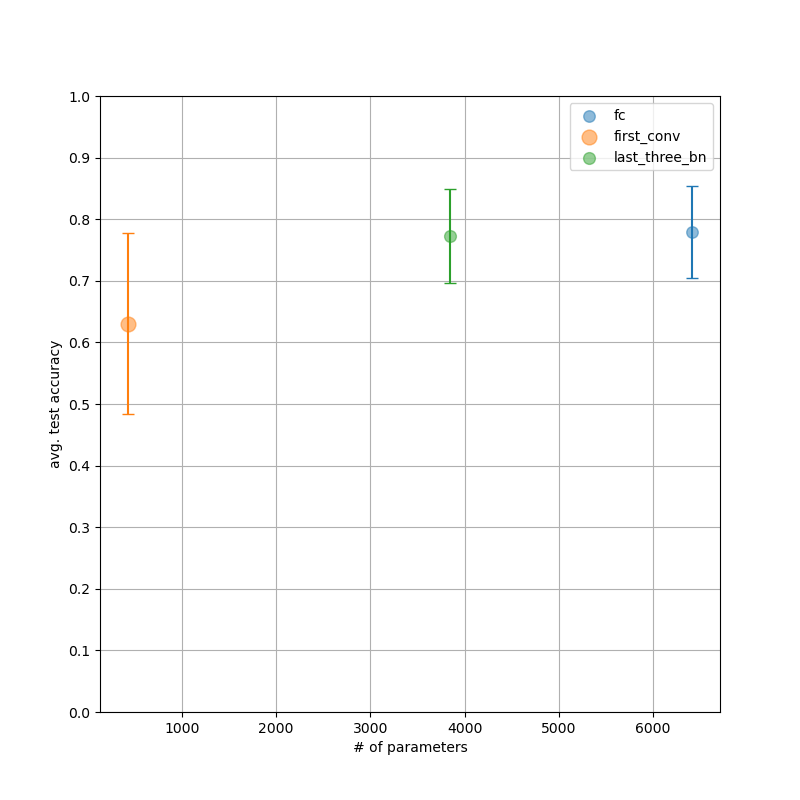
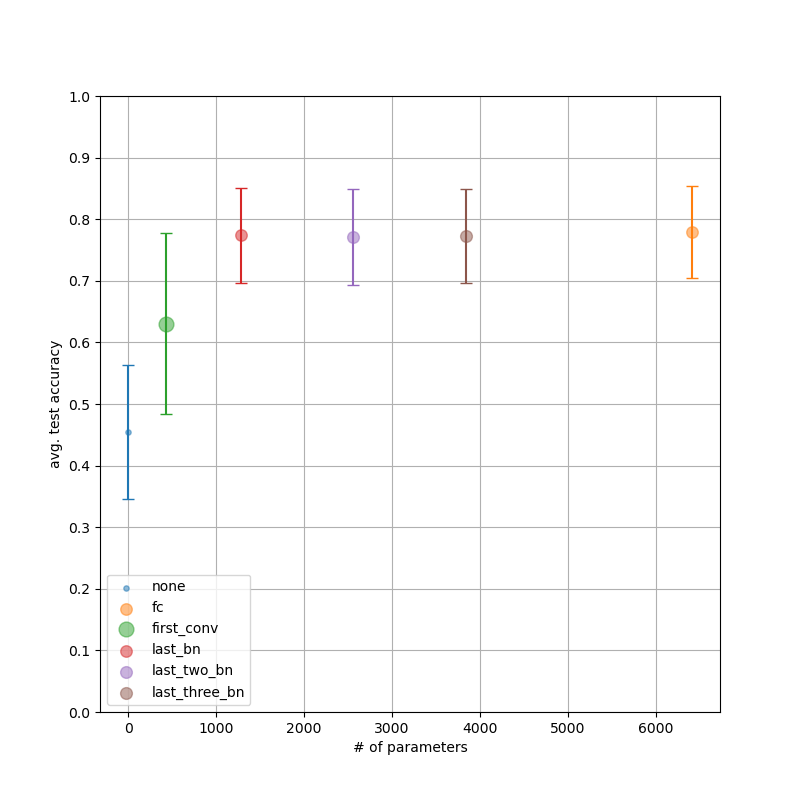
metric plots done, last_bn works well

diff --git a/finetuning/train.py b/finetuning/train.py
@@ -260,8 +260,34 @@ if __name__ == '__main__':
 						param.requires_grad = True
 				else: # freezeall other parameters
 					for param in module.parameters():
+						param.requires_grad = False	
+
+			elif args.finetune_config == "last_two_bn":
+				metrics['subset_state_dict_keys'] = ['bn1.weight','bn1.bias','block3.layer.3.bn2.weight','block3.layer.3.bn2.bias']
+				if name == 'bn1':
+					metrics['num_params'] += sum(p.numel() for p in module.parameters())
+					module.reset_parameters()
+					for param in module.parameters():
+						param.requires_grad = True
+				elif name == 'block3.layer.3.bn2':
+					metrics['num_params'] += sum(p.numel() for p in module.parameters())
+					module.reset_parameters()
+					for param in module.parameters():
+						param.requires_grad = True
+				else: # freezeall other parameters
+					for param in module.parameters():
 						param.requires_grad = False
-			
+
+			elif args.finetune_config == "last_bn":
+				metrics['subset_state_dict_keys'] = ['bn1.weight','bn1.bias']
+				if name == 'bn1':
+					metrics['num_params'] += sum(p.numel() for p in module.parameters())
+					module.reset_parameters()
+					for param in module.parameters():
+						param.requires_grad = True
+				else: # freezeall other parameters
+					for param in module.parameters():
+						param.requires_grad = False	
 
 	criterion = nn.CrossEntropyLoss()  # Softmax is internally computed.
 	optimizer = torch.optim.SGD(model.parameters(), lr=args.lr,momentum=0.9,weight_decay=1e-4)
@@ -279,11 +305,12 @@ if __name__ == '__main__':
 	dl_v = DataLoader(val_ds,batch_size=128)
 	dl_t = DataLoader(test_ds,batch_size=256)
 
-	train(model,criterion,optimizer,log_name,args.epochs,100,'cuda',dl,dl_v,logger,lr_sch,5,metrics)
+	if not args.finetune_config == 'none':	
+		train(model,criterion,optimizer,log_name,args.epochs,100,'cuda',dl,dl_v,logger,lr_sch,5,metrics)
+		checkpoint_path = os.path.join(PROJECT_ROOT,"saved_data/checkpoints",log_name) + ".pth"
+		model.load_state_dict(torch.load(checkpoint_path)['model_state_dict'],strict=False)
 	logger.info("========================= Test Results =========================")
 
-	checkpoint_path = os.path.join(PROJECT_ROOT,"saved_data/checkpoints",log_name) + ".pth"
-	model.load_state_dict(torch.load(checkpoint_path)['model_state_dict'],strict=False)
 	test_acc,test_loss = validate(model,dl_t,'cuda',criterion)
 	logger.info(f'Accuracy: {test_acc}, Loss: {test_loss}')
 

diff --git a/finetuning/plot_stats.py b/finetuning/plot_stats.py
@@ -10,7 +10,7 @@ import numpy as np
 
 root_path = os.path.join(PROJECT_ROOT,"saved_data/metrics")
 
-finetune_config_list = ["fc","first_conv","last_three_bn"]
+finetune_config_list = ["none","fc","first_conv","last_bn","last_two_bn","last_three_bn"]
 corruption_list = ["frost", "gaussian_noise", "glass_blur", "contrast", "pixelate"]
 seeds = 10
 num_vals = seeds*len(corruption_list)
